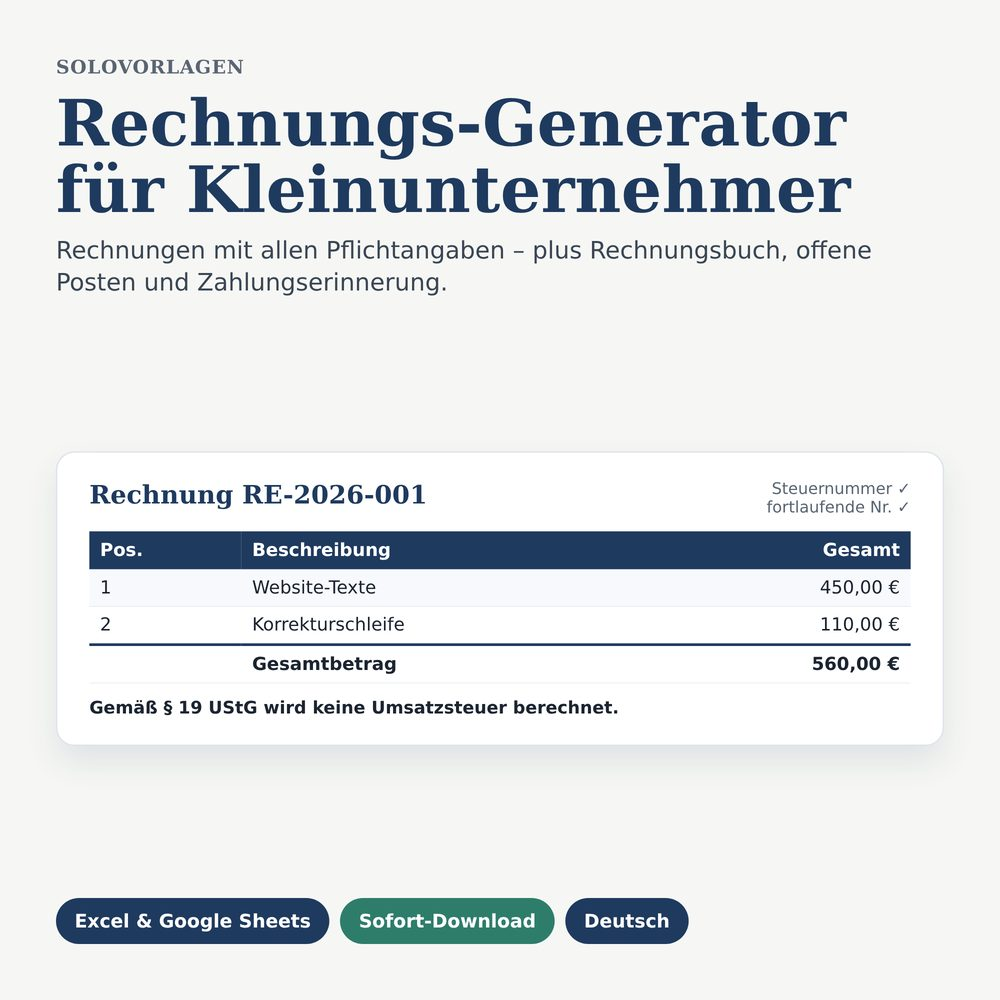
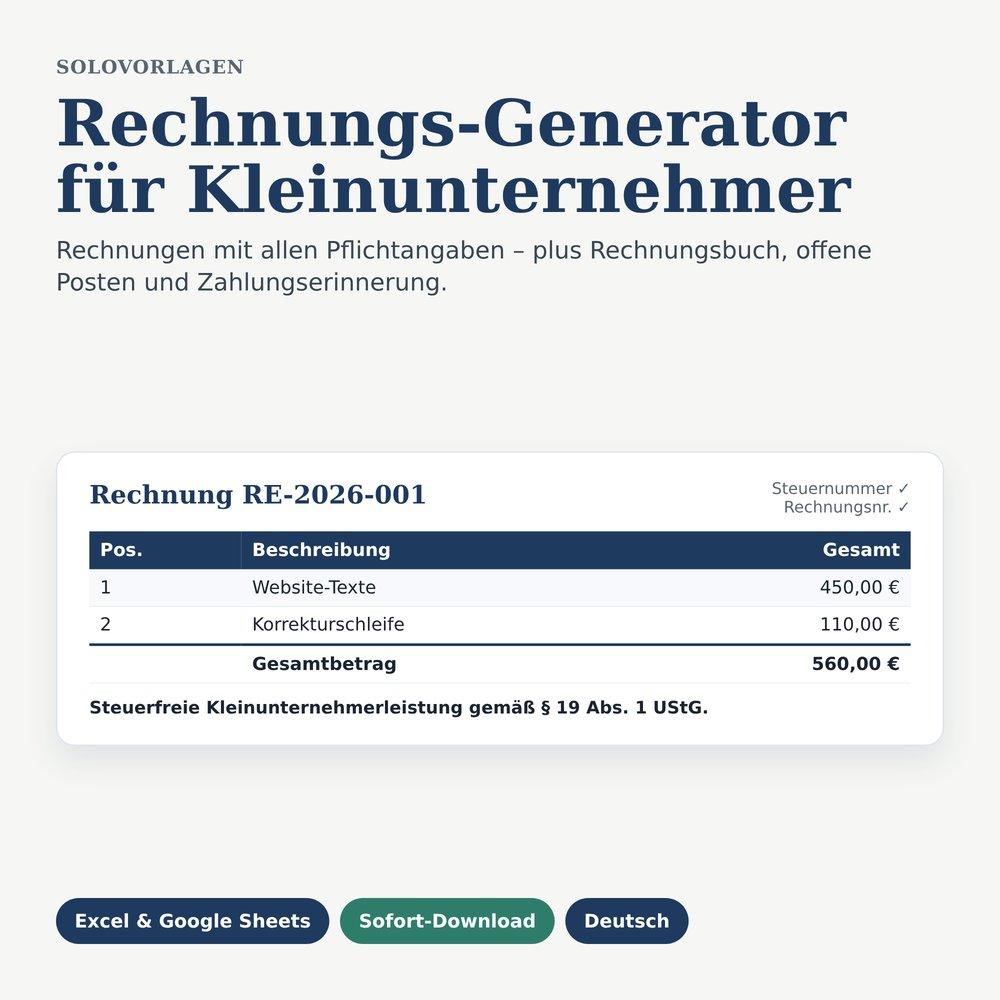
Pinterest-RSS-Feeds (3 Boards), Pin 19, Hinweistext auf Pin 13 und Produktbild aktualisiert
Claude-Session: https://claude.ai/code/session_0175UiJjZS6AvFwhkbq53yr1

Changed region(s): [[0.093, 0.682, 0.62, 0.713], [0.775, 0.496, 0.899, 0.527], [0.651, 0.682, 0.713, 0.713]]

diff --git a/src/pins.py b/src/pins.py
@@ -29,7 +29,7 @@ P=[
 ]
 P2=[
 ("Rechnung als Kleinunternehmer?","Diesen Satz brauchst du","Hinweis-Text zum Kopieren – kostenlos","quote","rechnungstext-kleinunternehmer.html","Kleinunternehmer Tipps",
- "Jede Kleinunternehmer-Rechnung braucht einen Hinweis auf § 19 UStG, z. B. „Gemäß § 19 UStG wird keine Umsatzsteuer berechnet.“ Drei Formulierungen zum Kopieren plus Pflichtangaben-Check nach § 34a UStDV – kostenlos und ohne Anmeldung.","rechnung kleinunternehmer, paragraph 19 ustg, rechnung schreiben, kleinunternehmerregelung, selbstständig"),
+ "Jede Kleinunternehmer-Rechnung braucht einen Hinweis auf die Steuerbefreiung, z. B. „Steuerfreie Kleinunternehmerleistung gemäß § 19 Abs. 1 UStG.“ Formulierungen zum Kopieren plus Pflichtangaben-Check nach § 34a UStDV – kostenlos und ohne Anmeldung.","rechnung kleinunternehmer, paragraph 19 ustg, rechnung schreiben, kleinunternehmerregelung, selbstständig"),
 ("Pflichtangaben-Check","für Kleinunternehmer-Rechnungen","Fehlt etwas? Der Generator zeigt es sofort","checks","rechnungstext-kleinunternehmer.html","Kleinunternehmer Tipps",
  "Name, Anschrift, Steuernummer, Datum, Leistung, Betrag und § 19-Hinweis: Der kostenlose Rechnungstext-Generator prüft deine Kleinunternehmer-Rechnung nach § 34a UStDV und erstellt den fertigen Text. Rechnungsnummer? Nicht Pflicht – aber empfohlen.","rechnung pflichtangaben, kleinunternehmer rechnung vorlage, rechnungsnummer, gründer tipps, freelancer"),
 ("Laptop gekauft?","Sofort absetzen – egal wie teuer","Computer & Software: Nutzungsdauer 1 Jahr","laptop","gwg-rechner.html","Selbstständig: Preise & Geld",
@@ -40,6 +40,10 @@ P2=[
  "Fahrten zum Kunden mit dem Privatauto? 0,30 € je gefahrenem Kilometer sind Betriebsausgabe. 250 km im Monat ergeben 900 € im Jahr. Der kostenlose Fahrtkosten-Rechner 2026 rechnet es für dich aus.","fahrtkosten absetzen, kilometerpauschale 2026, dienstfahrt, selbstständig steuern, betriebsausgaben"),
 ("Entfernungspauschale 2026","Jetzt 0,38 € ab dem 1. Kilometer","Was sich für Selbstständige ändert",None,"fahrtkosten-rechner.html","Selbstständig: Preise & Geld",
  "Seit 2026 gilt die Entfernungspauschale von 0,38 € schon ab dem ersten Kilometer. Für Selbstständige zählt sie beim Weg zur eigenen Betriebsstätte – alle anderen betrieblichen Fahrten laufen mit 0,30 € je km. Kostenloser Rechner.","entfernungspauschale 2026, pendlerpauschale, fahrtkosten, selbstständig, steuern 2026"),
+]
+P3=[
+("Rechnungen als Kleinunternehmer","Excel-Vorlage mit allen Pflichtangaben","Rechnungsbuch · offene Posten · Zahlungserinnerung","img/rechnung-01.jpg","rechnung.html","Excel-Vorlagen für Selbstständige",
+ "Rechnungs-Generator für Kleinunternehmer: Rechnungen mit allen Pflichtangaben nach § 34a UStDV und Hinweis auf die Steuerbefreiung, Kundenliste, Rechnungsbuch mit offenen Posten und fertige Zahlungserinnerung. Excel & Google Sheets.","rechnungsvorlage kleinunternehmer, rechnung excel, rechnung schreiben, zahlungserinnerung, selbstständig"),
 ]
 CSS="""*{box-sizing:border-box}body{margin:0;width:1000px;height:1500px;font-family:'DejaVu Sans',Arial,sans-serif}
 .p{width:1000px;height:1500px;padding:80px 72px;display:flex;flex-direction:column;justify-content:space-between;overflow:hidden}
@@ -58,7 +62,7 @@ def render(i,t):
     elif extra=="rate":
         mid=f'<div style="background:rgba(255,255,255,.12);border-radius:28px;padding:40px"><div style="font-size:30px;color:{mut};font-weight:700">DEIN STUNDENSATZ</div><div class=serif style="font-size:150px;color:{fg};line-height:1.1">65 €</div><div style="font-size:32px;color:{mut}">Tagessatz ≈ 520 €</div></div>'
     elif extra=="quote":
-        mid=f'<div style="background:#fff;border-radius:28px;padding:44px;border-left:16px solid {acc}"><div class=serif style="font-size:52px;line-height:1.25;color:#1F3A5F">„Gemäß § 19 UStG wird keine Umsatzsteuer berechnet.“</div><div style="margin-top:22px;font-size:30px;color:#5A6573;font-weight:700">KOPIEREN · EINFÜGEN · FERTIG</div></div>'
+        mid=f'<div style="background:#fff;border-radius:28px;padding:44px;border-left:16px solid {acc}"><div class=serif style="font-size:48px;line-height:1.25;color:#1F3A5F">„Steuerfreie Kleinunternehmer&shy;leistung gemäß § 19 Abs. 1 UStG.“</div><div style="margin-top:22px;font-size:30px;color:#5A6573;font-weight:700">KOPIEREN · EINFÜGEN · FERTIG</div></div>'
     elif extra=="checks":
         mid='<div style="background:#fff;border-radius:28px;padding:34px 40px">'+"".join(f'<div style="display:flex;gap:22px;align-items:center;font-size:36px;color:#1B2430;padding:10px 0"><span style="width:46px;height:46px;border-radius:50%;background:{b};color:{c};display:inline-flex;align-items:center;justify-content:center;font-weight:700">{m}</span>{l}</div>' for b,c,m,l in [("#D4EDDA","#0F5132","✓","Name & Anschrift"),("#D4EDDA","#0F5132","✓","Steuernummer"),("#D4EDDA","#0F5132","✓","Datum & Leistung"),("#FFF3CD","#664D03","!","Hinweis § 19 UStG"),("#E3E8EE","#5A6573","–","Rechnungsnummer (optional)")])+'</div>'
     elif extra=="laptop":
@@ -77,7 +81,7 @@ def render(i,t):
     return h
 import sys
 BATCH=int(sys.argv[1]) if len(sys.argv)>1 else 2
-LST,OFF,START,CSVN={1:(P,0,datetime.date(2026,10,16),"pinterest-pins.csv"),2:(P2,12,datetime.date(2026,10,17),"pinterest-pins-2.csv")}[BATCH]
+LST,OFF,START,CSVN={1:(P,0,datetime.date(2026,10,16),"pinterest-pins.csv"),2:(P2,12,datetime.date(2026,10,17),"pinterest-pins-2.csv"),3:(P3,18,datetime.date(2026,10,18),"pinterest-pins-3.csv")}[BATCH]
 ROOT=os.path.join(os.path.dirname(os.path.abspath(__file__)),"..")
 with sync_playwright() as p:
     b=p.chromium.launch(); pg=b.new_page(viewport={'width':1000,'height':1500})

diff --git a/src/feeds.py b/src/feeds.py
@@ -1,0 +1,24 @@
+# RSS-Feeds für Pinterest-Autopublish (ein Feed pro Board). Einträge in src/feeds.json.
+# Neue Pins: Eintrag in feeds.json ergänzen (id eindeutig, link auf solovorlagen.de, image = Pin-Bild 1000x1500),
+# python3 src/gen_site.py, committen, pushen. Pinterest holt neue Einträge täglich ab.
+import json, os, html as _h, datetime as _dt, email.utils as _eu
+_HERE=os.path.dirname(os.path.abspath(__file__)); _OUT=os.path.join(_HERE,"..","docs")
+FEEDS={"kleinunternehmer-tipps":"Kleinunternehmer Tipps","preise-und-geld":"Selbstständig: Preise & Geld","excel-vorlagen":"Excel-Vorlagen für Selbstständige"}
+_items=json.load(open(os.path.join(_HERE,"feeds.json"),encoding="utf-8"))
+os.makedirs(os.path.join(_OUT,"feeds"),exist_ok=True)
+for slug,board in FEEDS.items():
+    its=sorted([i for i in _items if i["board"]==board],key=lambda i:i["date"],reverse=True)
+    x=['<?xml version="1.0" encoding="UTF-8"?>','<rss version="2.0" xmlns:media="http://search.yahoo.com/mrss/" xmlns:atom="http://www.w3.org/2005/Atom">','<channel>',
+       f'<title>Solovorlagen – {_h.escape(board)}</title>','<link>https://solovorlagen.de/</link>',
+       f'<atom:link href="https://solovorlagen.de/feeds/{slug}.xml" rel="self" type="application/rss+xml"/>',
+       f'<description>{_h.escape(board)}: Tipps, Rechner und Vorlagen für Selbstständige und Kleinunternehmer.</description>','<language>de-de</language>']
+    for i in its:
+        img=os.path.join(_OUT,i["image"].replace("https://solovorlagen.de/",""))
+        size=os.path.getsize(img) if os.path.exists(img) else 0
+        d=_dt.datetime.fromisoformat(i["date"]).replace(tzinfo=_dt.timezone.utc)
+        x+=['<item>',f'<title>{_h.escape(i["title"])}</title>',f'<link>{_h.escape(i["link"])}</link>',f'<guid isPermaLink="false">solovorlagen-{i["id"]}</guid>',
+            f'<pubDate>{_eu.format_datetime(d)}</pubDate>',f'<description>{_h.escape(i["description"])}</description>',
+            f'<enclosure url="{i["image"]}" length="{size}" type="image/jpeg"/>',f'<media:content url="{i["image"]}" medium="image" type="image/jpeg" width="1000" height="1500"/>','</item>']
+    x+=['</channel>','</rss>']
+    open(os.path.join(_OUT,"feeds",slug+".xml"),"w",encoding="utf-8").write("\n".join(x)+"\n")
+print("feeds ok", {s:sum(1 for i in _items if i["board"]==b) for s,b in FEEDS.items()})

diff --git a/src/content.py b/src/content.py
@@ -311,4 +311,5 @@ open(os.path.join(OUT,"llms.txt"),"w").write("""# Solovorlagen
 ## Vorlagen
 - [Kleinunternehmer-Cockpit](https://solovorlagen.de/cockpit.html), [Rechnungs-Generator](https://solovorlagen.de/rechnung.html), [Stundensatz-Rechner](https://solovorlagen.de/stundensatz.html), [Fahrtenbuch](https://solovorlagen.de/fahrtenbuch.html), [AfA-Rechner](https://solovorlagen.de/afa.html), [Paket](https://solovorlagen.de/paket.html)
 """)
+exec(open(os.path.join(HERE,"feeds.py")).read())
 print("content ok")

diff --git a/README.md b/README.md
@@ -5,3 +5,8 @@ Statische Website von Solovorlagen (GitHub Pages, Ordner `docs/`).
 - `src/gen_site.py` erzeugt alle Shop-, Produkt- und Ratgeberseiten nach `docs/` (Inhalte in `src/content.py`, Digistore24-IDs in `src/ds24.json`).
 - `docs/impressum.html`, `docs/datenschutz.html`, Bilder und Pins sind statisch.
 - Neu bauen: `python3 src/gen_site.py`, danach committen und pushen – GitHub Pages veröffentlicht automatisch.
+
+## Pinterest
+- Pins werden automatisch per RSS veröffentlicht: `docs/feeds/kleinunternehmer-tipps.xml`, `preise-und-geld.xml`, `excel-vorlagen.xml` (je ein Pinterest-Board).
+- Neuer Pin: Bild 1000×1500 nach `docs/pins/pin-NN.jpg` (Generator `src/pins.py`, neuer Batch), Eintrag in `src/feeds.json` (eindeutige id, board-Name exakt, link auf solovorlagen.de, image-URL, date), `python3 src/gen_site.py`, commit, push. Pinterest holt neue Einträge täglich ab.
+- Die CSV-Dateien `pinterest-pins*.csv` sind nur noch Archiv (Pins 1–12 wurden per CSV geplant).
